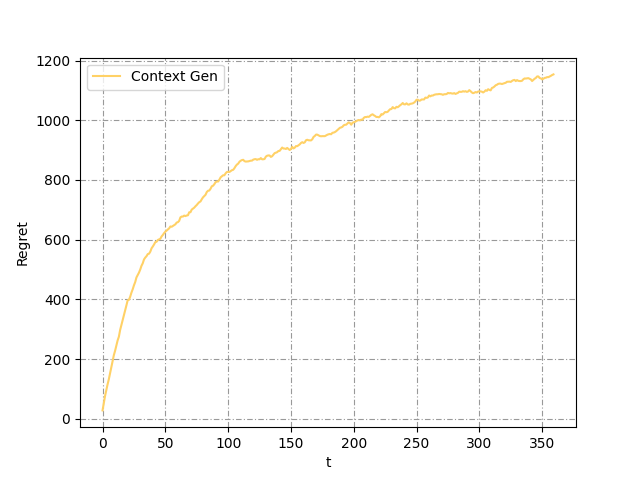
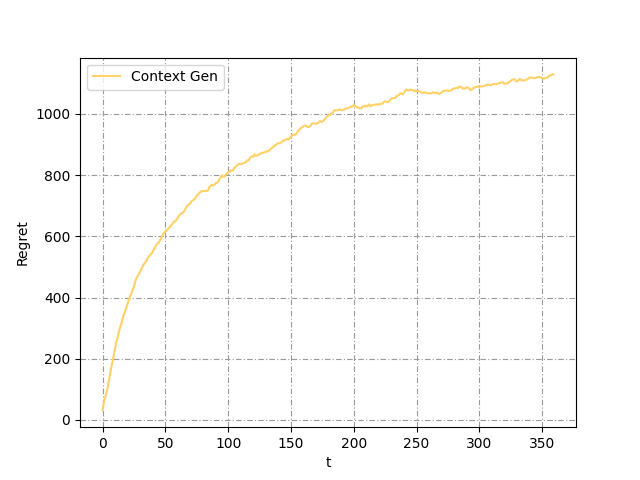
aggiunto un pò di seed

diff --git a/learners.py b/learners.py
@@ -43,6 +43,7 @@ class Greedy_Learner(Learner):
         if (self.t < self.n_arms):
             return self.t
         idxs = np.argwhere(self.expected_rewards == self.expected_rewards.max()).reshape(-1)
+        np.random.seed(123)
         pulled_arm = np.random.choice(idxs)
         return pulled_arm
 
@@ -64,6 +65,7 @@ class UCB1(Learner):
             arm = self.t
         else:
             upper_bound = (self.empirical_means + self.confidence)*self.prices
+            np.random.seed(123)
             arm = np.random.choice(np.where(upper_bound == upper_bound.max())[0])
         return arm
 
@@ -87,7 +89,8 @@ class TS_Learner(Learner):
         self.candidates = candidates
 
     def pull_arm(self):
-
+        
+        np.random.seed(123)
         beta_samples = np.random.beta(self.beta_parameters[:,0], self.beta_parameters[:,1])
         expected_rewards = np.multiply(beta_samples, self.candidates)
 
@@ -199,7 +202,9 @@ class GPTS_learner_positive(Learner):
 
     def pull_arm(self):
         if (len(self.pulled_arms) < 10):
+            np.random.seed(123)
             return np.random.choice(self.n_arms)   # scelta uniforme nei primi 20 round  --> deve essere coerente con l'enviroment
+        np.random.seed(123)
         sample = np.random.normal(self.means,self.sigmas)
         neg = []
         for i in range(len(sample)):  # controllo uno alla volta gli elementi del sample
